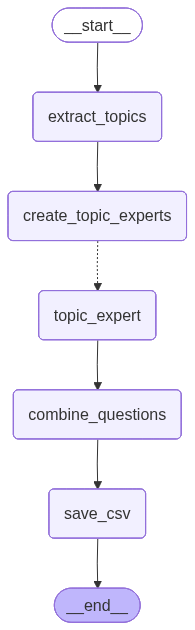
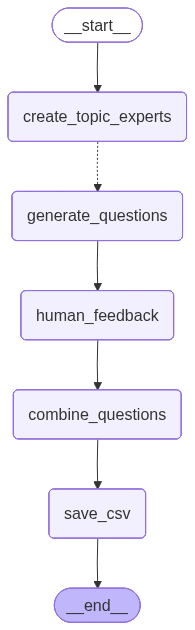
Added human feedback

diff --git a/src/course_questions_gen/graph.py b/src/course_questions_gen/graph.py
@@ -10,12 +10,14 @@ from typing import Annotated, Any, TypedDict
 
 from langchain_core.messages import SystemMessage
 
-from langgraph.constants import Send
+
 from langgraph.graph import END, START, StateGraph
 from pydantic import BaseModel, Field
 from langgraph.runtime import Runtime
 
 from course_questions_gen.utils import GraphContext
+from langgraph.types import Command, Send, interrupt
+from langgraph.checkpoint.memory import InMemorySaver
 
 
 #============================ Graph States =================================
@@ -150,10 +152,12 @@ def generate_questions(state: ExpertState, runtime: Runtime[GraphContext]) -> di
     generate_question_prompt = runtime.context.prompts.content_expert.generate_question
     question_rules_prompt = runtime.context.prompts.shared.question_format.format()
 
+    how_much_question_generate = runtime.context.question_count - len(state.get("raw_questions", []))
+
     # Generate question. Values like `section`, `topic` comes from **state dict.
     prompt_values = {
         **state,
-        "question_count": runtime.context.question_count,
+        "question_count": how_much_question_generate,
         "question_rules": question_rules_prompt,
     }
     system_message = generate_question_prompt.format(**prompt_values)
@@ -169,10 +173,42 @@ def generate_questions(state: ExpertState, runtime: Runtime[GraphContext]) -> di
         "experts": {
             state["topic"]: {
                 **state,
-                "raw_questions": raw_questions,
+                "raw_questions": state.get("raw_questions", []) + raw_questions,
             },
         },
     }
+
+
+
+def human_feedback(state: GeneralState) -> dict[str, Any]:
+    approved_questions = interrupt({
+        "message": "Review these questions.",
+        "experts": state["experts"],
+    })
+
+    updated_experts = {}
+
+    for topic, expert in state["experts"].items():
+        updated_experts[topic] = {
+            **expert,
+            "raw_questions": approved_questions.get(topic, []),
+        }
+
+    return {"experts": updated_experts}
+
+
+def route_missing_questions(state: GeneralState, runtime: Runtime[GraphContext]) -> list[Send] | str:
+    sends = []
+
+    for expert in state.get("experts", {}).values():
+        question_count = len(expert.get("raw_questions", []))
+        if question_count < runtime.context.question_count:
+            sends.append(Send("generate_questions", expert))
+
+    if sends:
+        return sends
+
+    return "combine_questions"
 
 
 def combine_questions(
@@ -201,6 +237,9 @@ def combine_questions(
     return {"formatted_questions": formatted_questions}
 
 
+
+
+
 def save_csv(
     state: GeneralState,
     runtime: Runtime[GraphContext],
@@ -219,13 +258,14 @@ def save_csv(
     return {}
 
 
-def build_graph():
+def build_graph(checkpointer = InMemorySaver()):
     """Build and compile the placeholder question-generation graph."""
     #create_default_context()
     builder = StateGraph(GeneralState, context_schema=GraphContext)
 
     builder.add_node("create_topic_experts", create_topic_experts)
     builder.add_node("generate_questions", generate_questions)
+    builder.add_node("human_feedback", human_feedback)
     builder.add_node("combine_questions", combine_questions)
     builder.add_node("save_csv", save_csv)
 
@@ -236,8 +276,52 @@ def build_graph():
         route_topic_experts,
         ["generate_questions"],
     )
-    builder.add_edge("generate_questions", "combine_questions")
+    # Checking questions
+    builder.add_edge("generate_questions", "human_feedback")
+    builder.add_conditional_edges(
+        "human_feedback",
+        route_missing_questions,
+        ["generate_questions", "combine_questions"],
+    )
     builder.add_edge("combine_questions", "save_csv")
     builder.add_edge("save_csv", END)
 
-    return builder.compile()
+    return builder.compile(checkpointer=checkpointer)
+
+
+def collect_feedback_from_terminal(payload):
+    approved = {}
+
+    for topic, expert in payload["experts"].items():
+        approved[topic] = []
+
+        for question in expert.get("raw_questions", []):
+            print("\nTopic:", topic)
+            print(question["question"])
+
+            answer = input("Keep? [Y/n]: ").strip().lower()
+            if answer not in ("n", "no"):
+                approved[topic].append(question)
+
+    return approved
+
+def run_graph_with_feedback(
+    graph,
+    input_state: GeneralState,
+    context: GraphContext,
+    collect_feedback = collect_feedback_from_terminal,
+):
+    config = {"configurable": {"thread_id": "question-generation"}}
+    result = graph.invoke(input_state, config=config, context=context)
+
+    while "__interrupt__" in result:
+        payload = result["__interrupt__"][0].value
+        feedback = collect_feedback(payload)
+
+        result = graph.invoke(
+            Command(resume=feedback),
+            config=config,
+            context=context,
+        )
+
+    return result

diff --git a/main.py b/main.py
@@ -1,8 +1,9 @@
 from anyio import Path
 from langchain_community.callbacks.manager import get_openai_callback
 
-from course_questions_gen.graph import build_graph
+from course_questions_gen.graph import build_graph, run_graph_with_feedback
 from course_questions_gen.utils import create_default_context, TopicsCSV
+
 
 
 if __name__ == "__main__":
@@ -13,14 +14,15 @@ if __name__ == "__main__":
     topics = topics_db.topics(first_section)
    
     graph = build_graph()
+
+    
     with get_openai_callback() as stats:
-        result = graph.invoke(
-            {
-                "section": first_section,
-                "topics": topics,
-            },
-            context=context,
-        )
+        input_state = {
+            "section": first_section,
+            "topics": topics,
+        }
+        result = run_graph_with_feedback(graph, input_state, context)
+
 
     print(
         "LLM calls:",